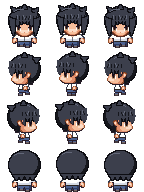
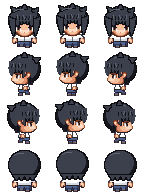
ちびキャラ：横向きの目を手本の作りに合わせる（上まぶたの線、まつげ、瞳孔、2列の白目、目尻の影）
Claude-Session: https://claude.ai/code/session_017gxvkc2TW4xYgG5MuSL3N1

diff --git a/files.js b/files.js
@@ -2,7 +2,7 @@
 // マップなどを足したら scripts に1行足す（順番どおりに読み込む。main.js は最後）。
 // 版の番号 v は tools/stamp.py が書き換える。
 window.FILES = {
-  v: '20261127045947',
+  v: '20261127050834',
   scripts: [
     'engine/core.js',
     'engine/world.js',

diff --git a/CLAUDE.md b/CLAUDE.md
@@ -10,7 +10,7 @@
 - 校舎（廊下8枚と部屋の型）は `tools/gen_school.py` で生成する。生成した `data/maps/school_*.js` は直接直さず、スクリプトを直して作り直す。お話のイベントは `data/story.js` に `G.addEvents` で足す（`at: '扉の名前'` で位置を決められる）。見取り図の施設名のうち学校が特定されそうな名前は一般的な名前に変える
 - 参考にした市販ゲームのファイル（データ・画像・音・シナリオ）はこのリポジトリに入れない
 - タイル素材（ドット絵世界）は二次配布禁止。元のPNGは入れず、`tools/encode_tileset.py` で変換した `data/tilesets/*.js` だけを入れる。タイトル画面の著作権表示（system.js の credits）は消さない
-- キャラの歩行グラフィックは、いまはちびキャラ（手本：RPGツクールMVの標準キャラの比率、約1.5頭身、1コマ48×48px）。`tools/sprites/make_chibi.py` で描き、`img/chars/haru_chibi.png`・`img/chars/yui_chibi.png` に書き出す。塗りは手本と同じくっきりしたドット絵（48×48pxに直接描く。ベタ塗り、段をつけた影と光、部品ごとに1ドットの濃い輪郭、目は1ドットずつ形を決め、白い光はほぼ使わず外側の白目と上が濃い瞳で表す。髪のかたまりは小さめで額は高め、前髪には毛束の明るい筋を1本おきに入れて凹凸を出す。女子の髪は5段（光・明・中・暗・影）で束ごとに塗り分ける（make_chibi.py の hair_shade。頭頂はつむじから放射状の束で境目に暗い線、頭の丸みに沿って束ごとに上下へずれたギザギザの天使の輪（束の真ん中だけ光の色）、前髪は束ごとに上が明るく下ほど暗く真ん中に光の筋、横・後ろの髪は縦の束で左が明るく右と下が暗い。髪型が手本と違うので、ここは手本を写さず工夫したもの）。胴は肩が細く裾へ広がる八の字で、腕も外へ開く。前髪の毛先は目の上端に接するまで下ろし、真ん中の毛束だけ短くしてそのすき間から額をのぞかせる。前髪のすぐ下の肌には影（1段目は影色、2段目は中間色）。顔の横の髪で、目の外側の端からあごの近くまで顔を縁取る（男子は細く短め）。肌は桃色がかった色（白っぽくしない）。顔は上下と左右に4段（明・中間・影・濃い影）の明暗をドット単位でつけて立体感を出す（前髪の下は中間色→目の下から頬の段がいちばん明るい→その下は中間色→あごの段は影色。左右の端は内側へ濃い影→影→中間色、頬の段は影を1段多く）。目はまるごと見せる。やや上から見下ろしつつ足先まで全身を見せる（胴→スカート／ズボン→脚1ドット（女子は肌色）→靴2ドット（上が明るく下が暗い）。左右の足は幅5ドット（輪郭＋中身3）で間に1ドットのすき間。歩くと上げた足が1ドット上がる）。目は顔の大きさを変えずに大きく、5×5ドット（上まつげは3ドット幅で2段目が内側へ1ドットずれる斜め、黒目3ドット幅で上が濃く一番下が明るい、真ん中に縦2ドットの瞳孔、白目は外側3段・内側2段の両側）。目の間は7ドットで、目の外側は顔の縁（横の髪）に接する。見下ろす角度なので、肩はあごのすぐ下の行から始まり（上の面が明るく見える）、なで肩で下へ広がる。手は丸ではなくミトン形（幅4×高さ5、外側の輪郭は茶色・内側と下は濃い線で腕と胴の境目にもなる、明るい肌は真ん中上寄りに2×2、下の段の内側が欠けてその上に親指の付け根の点）。服の輪郭も濃い色。男子はシャツ6段・ベルト1段・ズボン3段（明るめの色、股の線）。女子のスカートは下半分に、地より濃い色の縦の折り目の線（中心をはさんで4ドット間隔の2本と、裾の両端寄り）。口は省いて鼻を1ドットの点で表す（頬のいちばん明るい段の最後の行、31行目）。幅の割合は、手を含めた体が頭の約8割。その中で胴は細く、肩と手を大きめにする）。横向き（左向き、前がマイナス）は、顔と胴の形を make_chibi.py の「行ごとの前端・後端の表」（FACE_SIDE・TORSO_SIDE_* など）で決める。手本を拡大して各行の端の位置を測り、その数字をそのまま表に書く（楕円や多角形で近似しない）。横顔は鼻筋がまっすぐ縦に続いたあと鼻で1ドット前に出て（鼻筋から下は顔より前に髪の輪郭を残さない）、その下で輪郭1ドット分の落差をつけてあごへ。あごは34行で終わり（下に出っ張らせない）、前の縁は輪郭線なしで濃い肌色、あごの下だけ濃い輪郭。目の前端は鼻筋から肌4ドット後ろ、前が黒目で後ろが白目。耳のまわりは make_chibi.py の EAR_SIDE_BOY／EAR_SIDE_GIRL の表で描く（手本を1ドットずつ測った作り：縦長のアーモンド形の耳で、上の縁は茶色、前の縁は黒、真ん中がいちばん明るい。耳の前はもみあげの髪で、顔側の縁は暗い髪色。もみあげの下の縁は耳の前から左下へ下りる黒い斜めの線（女子はあごの近くまで垂れる）。耳の下はあご・首の肌が後ろへ続き、その後ろの髪は影の色）。いちばん前の前髪は額の前に垂れる。明暗は前の縁が濃い影、前寄りの頬が最も明るく、耳に近い後ろほど暗い。女子の後ろ髪はあごの高さまで。胴は上が細く（36行で9〜10ドット）前の縁を斜めに下へ広げ、スカート・ズボンの広さとの落差を出す。手は胴の中ほどより後ろに4×5ドット、立ち姿は前後の足が並んで見える。手本を使うときは、拡大して絵そのものを見比べるのに加えて、行ごとの端の位置（前端・後端・上下の終わり）を手本とうちで並べて書き出し、1行ずつずれを確かめてから直す（ざっくりした観察で済ませない）。端は肌の色だけでなく、髪や輪郭も含めた「透明でない最も外側の点」で測る（肌だけ測ると、顔の前にはみ出した髪の輪郭で鼻が平らになっているのを見落とす）。「イラストを縮めた柔らかい塗り」は4頭身のための試しで、ちびキャラには使わない。3頭身・4頭身は見送り。約4頭身の版（`make_trial.py`→`trial.png`、`make_haru.py`→`haru.png`）も残してある。手本の絵は写さない（比率と描き方だけ合わせる）。直したらスクリプトを動かして画像を作り直す
+- キャラの歩行グラフィックは、いまはちびキャラ（手本：RPGツクールMVの標準キャラの比率、約1.5頭身、1コマ48×48px）。`tools/sprites/make_chibi.py` で描き、`img/chars/haru_chibi.png`・`img/chars/yui_chibi.png` に書き出す。塗りは手本と同じくっきりしたドット絵（48×48pxに直接描く。ベタ塗り、段をつけた影と光、部品ごとに1ドットの濃い輪郭、目は1ドットずつ形を決め、白い光はほぼ使わず外側の白目と上が濃い瞳で表す。髪のかたまりは小さめで額は高め、前髪には毛束の明るい筋を1本おきに入れて凹凸を出す。女子の髪は5段（光・明・中・暗・影）で束ごとに塗り分ける（make_chibi.py の hair_shade。頭頂はつむじから放射状の束で境目に暗い線、頭の丸みに沿って束ごとに上下へずれたギザギザの天使の輪（束の真ん中だけ光の色）、前髪は束ごとに上が明るく下ほど暗く真ん中に光の筋、横・後ろの髪は縦の束で左が明るく右と下が暗い。髪型が手本と違うので、ここは手本を写さず工夫したもの）。胴は肩が細く裾へ広がる八の字で、腕も外へ開く。前髪の毛先は目の上端に接するまで下ろし、真ん中の毛束だけ短くしてそのすき間から額をのぞかせる。前髪のすぐ下の肌には影（1段目は影色、2段目は中間色）。顔の横の髪で、目の外側の端からあごの近くまで顔を縁取る（男子は細く短め）。肌は桃色がかった色（白っぽくしない）。顔は上下と左右に4段（明・中間・影・濃い影）の明暗をドット単位でつけて立体感を出す（前髪の下は中間色→目の下から頬の段がいちばん明るい→その下は中間色→あごの段は影色。左右の端は内側へ濃い影→影→中間色、頬の段は影を1段多く）。目はまるごと見せる。やや上から見下ろしつつ足先まで全身を見せる（胴→スカート／ズボン→脚1ドット（女子は肌色）→靴2ドット（上が明るく下が暗い）。左右の足は幅5ドット（輪郭＋中身3）で間に1ドットのすき間。歩くと上げた足が1ドット上がる）。目は顔の大きさを変えずに大きく、5×5ドット（上まつげは3ドット幅で2段目が内側へ1ドットずれる斜め、黒目3ドット幅で上が濃く一番下が明るい、真ん中に縦2ドットの瞳孔、白目は外側3段・内側2段の両側）。目の間は7ドットで、目の外側は顔の縁（横の髪）に接する。見下ろす角度なので、肩はあごのすぐ下の行から始まり（上の面が明るく見える）、なで肩で下へ広がる。手は丸ではなくミトン形（幅4×高さ5、外側の輪郭は茶色・内側と下は濃い線で腕と胴の境目にもなる、明るい肌は真ん中上寄りに2×2、下の段の内側が欠けてその上に親指の付け根の点）。服の輪郭も濃い色。男子はシャツ6段・ベルト1段・ズボン3段（明るめの色、股の線）。女子のスカートは下半分に、地より濃い色の縦の折り目の線（中心をはさんで4ドット間隔の2本と、裾の両端寄り）。口は省いて鼻を1ドットの点で表す（頬のいちばん明るい段の最後の行、31行目）。幅の割合は、手を含めた体が頭の約8割。その中で胴は細く、肩と手を大きめにする）。横向き（左向き、前がマイナス）は、顔と胴の形を make_chibi.py の「行ごとの前端・後端の表」（FACE_SIDE・TORSO_SIDE_* など）で決める。手本を拡大して各行の端の位置を測り、その数字をそのまま表に書く（楕円や多角形で近似しない）。横顔は鼻筋がまっすぐ縦に続いたあと鼻で1ドット前に出て（鼻筋から下は顔より前に髪の輪郭を残さない）、その下で輪郭1ドット分の落差をつけてあごへ。あごは34行で終わり（下に出っ張らせない）、前の縁は輪郭線なしで濃い肌色、あごの下だけ濃い輪郭。目は make_chibi.py の EYE_SIDE の表で描く（手本を1ドットずつ測った作り：x −9〜−4、24〜29行。茶色の上まぶたの線が目尻まで続き、黒いまつげ、前の縁は黒、黒目は2ドット幅で上の段に瞳孔、白目は白と灰色の2列、目尻は濃い影の肌、いちばん下の段は明るい黒目。女子は目尻の列が髪にかかる）。目の前端は鼻筋から肌4ドット後ろ。耳のまわりは make_chibi.py の EAR_SIDE_BOY／EAR_SIDE_GIRL の表で描く（手本を1ドットずつ測った作り：縦長のアーモンド形の耳で、上の縁は茶色、前の縁は黒、真ん中がいちばん明るい。耳の前はもみあげの髪で、顔側の縁は暗い髪色。もみあげの下の縁は耳の前から左下へ下りる黒い斜めの線（女子はあごの近くまで垂れる）。耳の下はあご・首の肌が後ろへ続き、その後ろの髪は影の色）。いちばん前の前髪は額の前に垂れる。明暗は前の縁が濃い影、前寄りの頬が最も明るく、耳に近い後ろほど暗い。女子の後ろ髪はあごの高さまで。胴は上が細く（36行で9〜10ドット）前の縁を斜めに下へ広げ、スカート・ズボンの広さとの落差を出す。手は胴の中ほどより後ろに4×5ドット、立ち姿は前後の足が並んで見える。手本を使うときは、拡大して絵そのものを見比べるのに加えて、行ごとの端の位置（前端・後端・上下の終わり）を手本とうちで並べて書き出し、1行ずつずれを確かめてから直す（ざっくりした観察で済ませない）。端は肌の色だけでなく、髪や輪郭も含めた「透明でない最も外側の点」で測る（肌だけ測ると、顔の前にはみ出した髪の輪郭で鼻が平らになっているのを見落とす）。「イラストを縮めた柔らかい塗り」は4頭身のための試しで、ちびキャラには使わない。3頭身・4頭身は見送り。約4頭身の版（`make_trial.py`→`trial.png`、`make_haru.py`→`haru.png`）も残してある。手本の絵は写さない（比率と描き方だけ合わせる）。直したらスクリプトを動かして画像を作り直す
 - 字体：ゲームの文字は M+ 1m（`fonts/mplus-1m-regular.ttf`、M+ FONTS は自由に使用・配布できる）。`G.font()` と css/style.css で指定している。収録外の文字（♪など）は端末のフォントになる
 - 公開は gh-pages ブランチから。更新したら、まず `python3 tools/stamp.py`（files.js の版の番号を新しくする。ブラウザが古いファイルを使い回して新旧が混ざるのを防ぐ）、コミットして `git push origin main main:gh-pages` で両方に送る。そのあと `gh api repos/nzanke/game-test/actions/runs` で「pages build and deployment」が新しいコミットで completed success になったのを確かめてから報告する。ビルドが走らないときは空のコミットを送り直す（Pages 設定のAPIは作業環境から使えない）
 - やりとりと説明は日本語で
